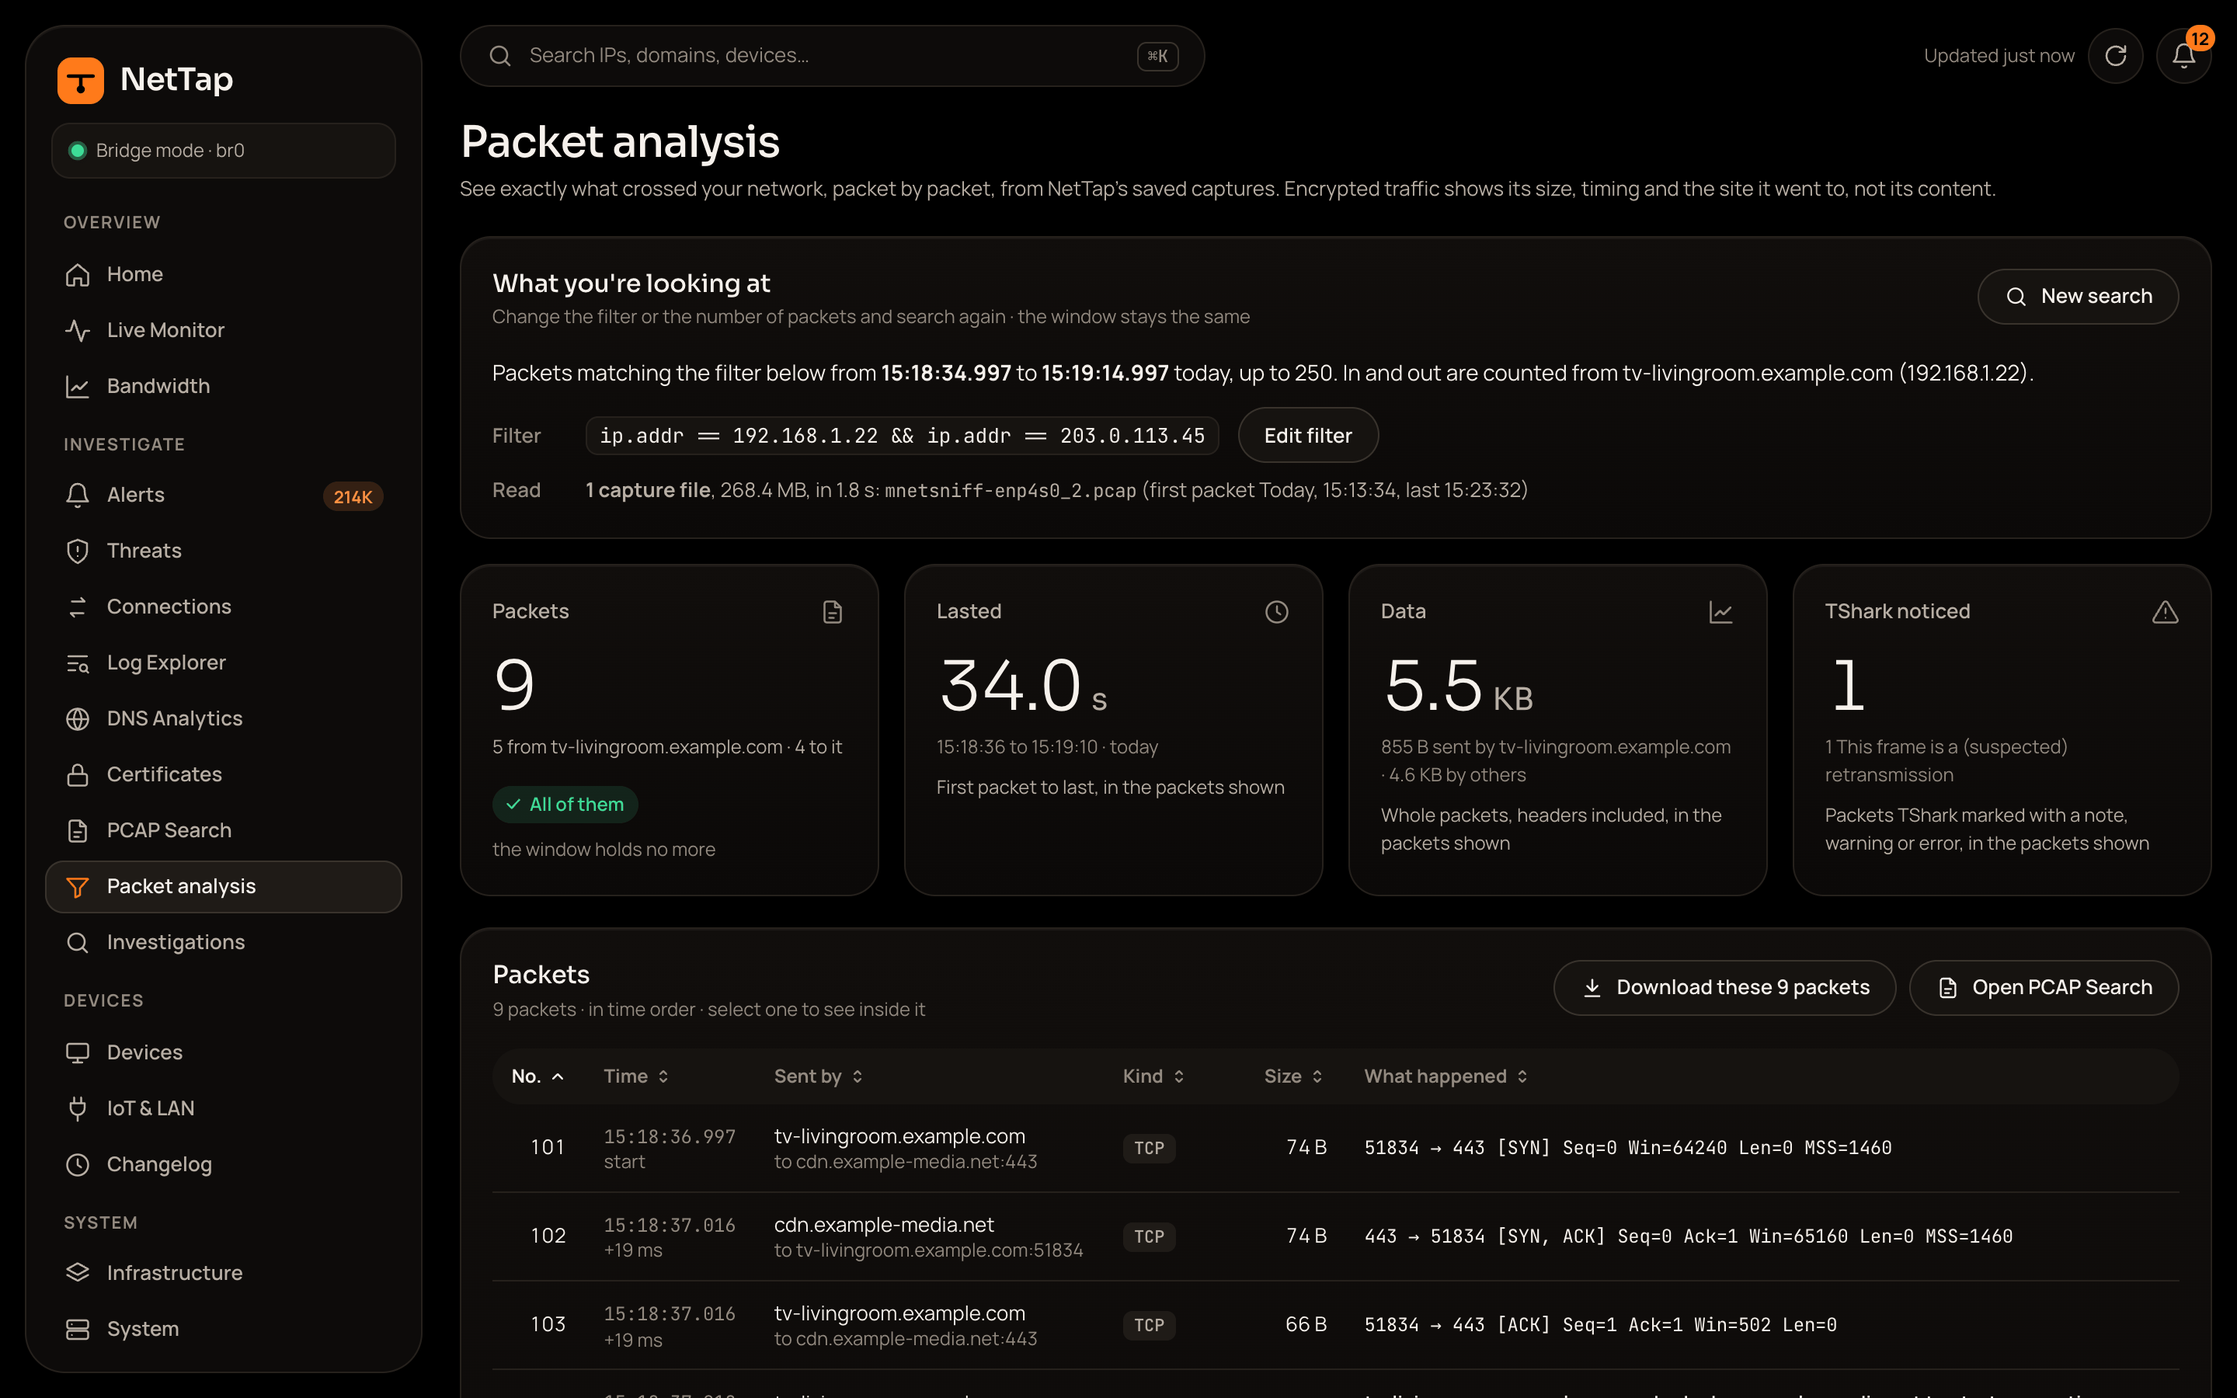
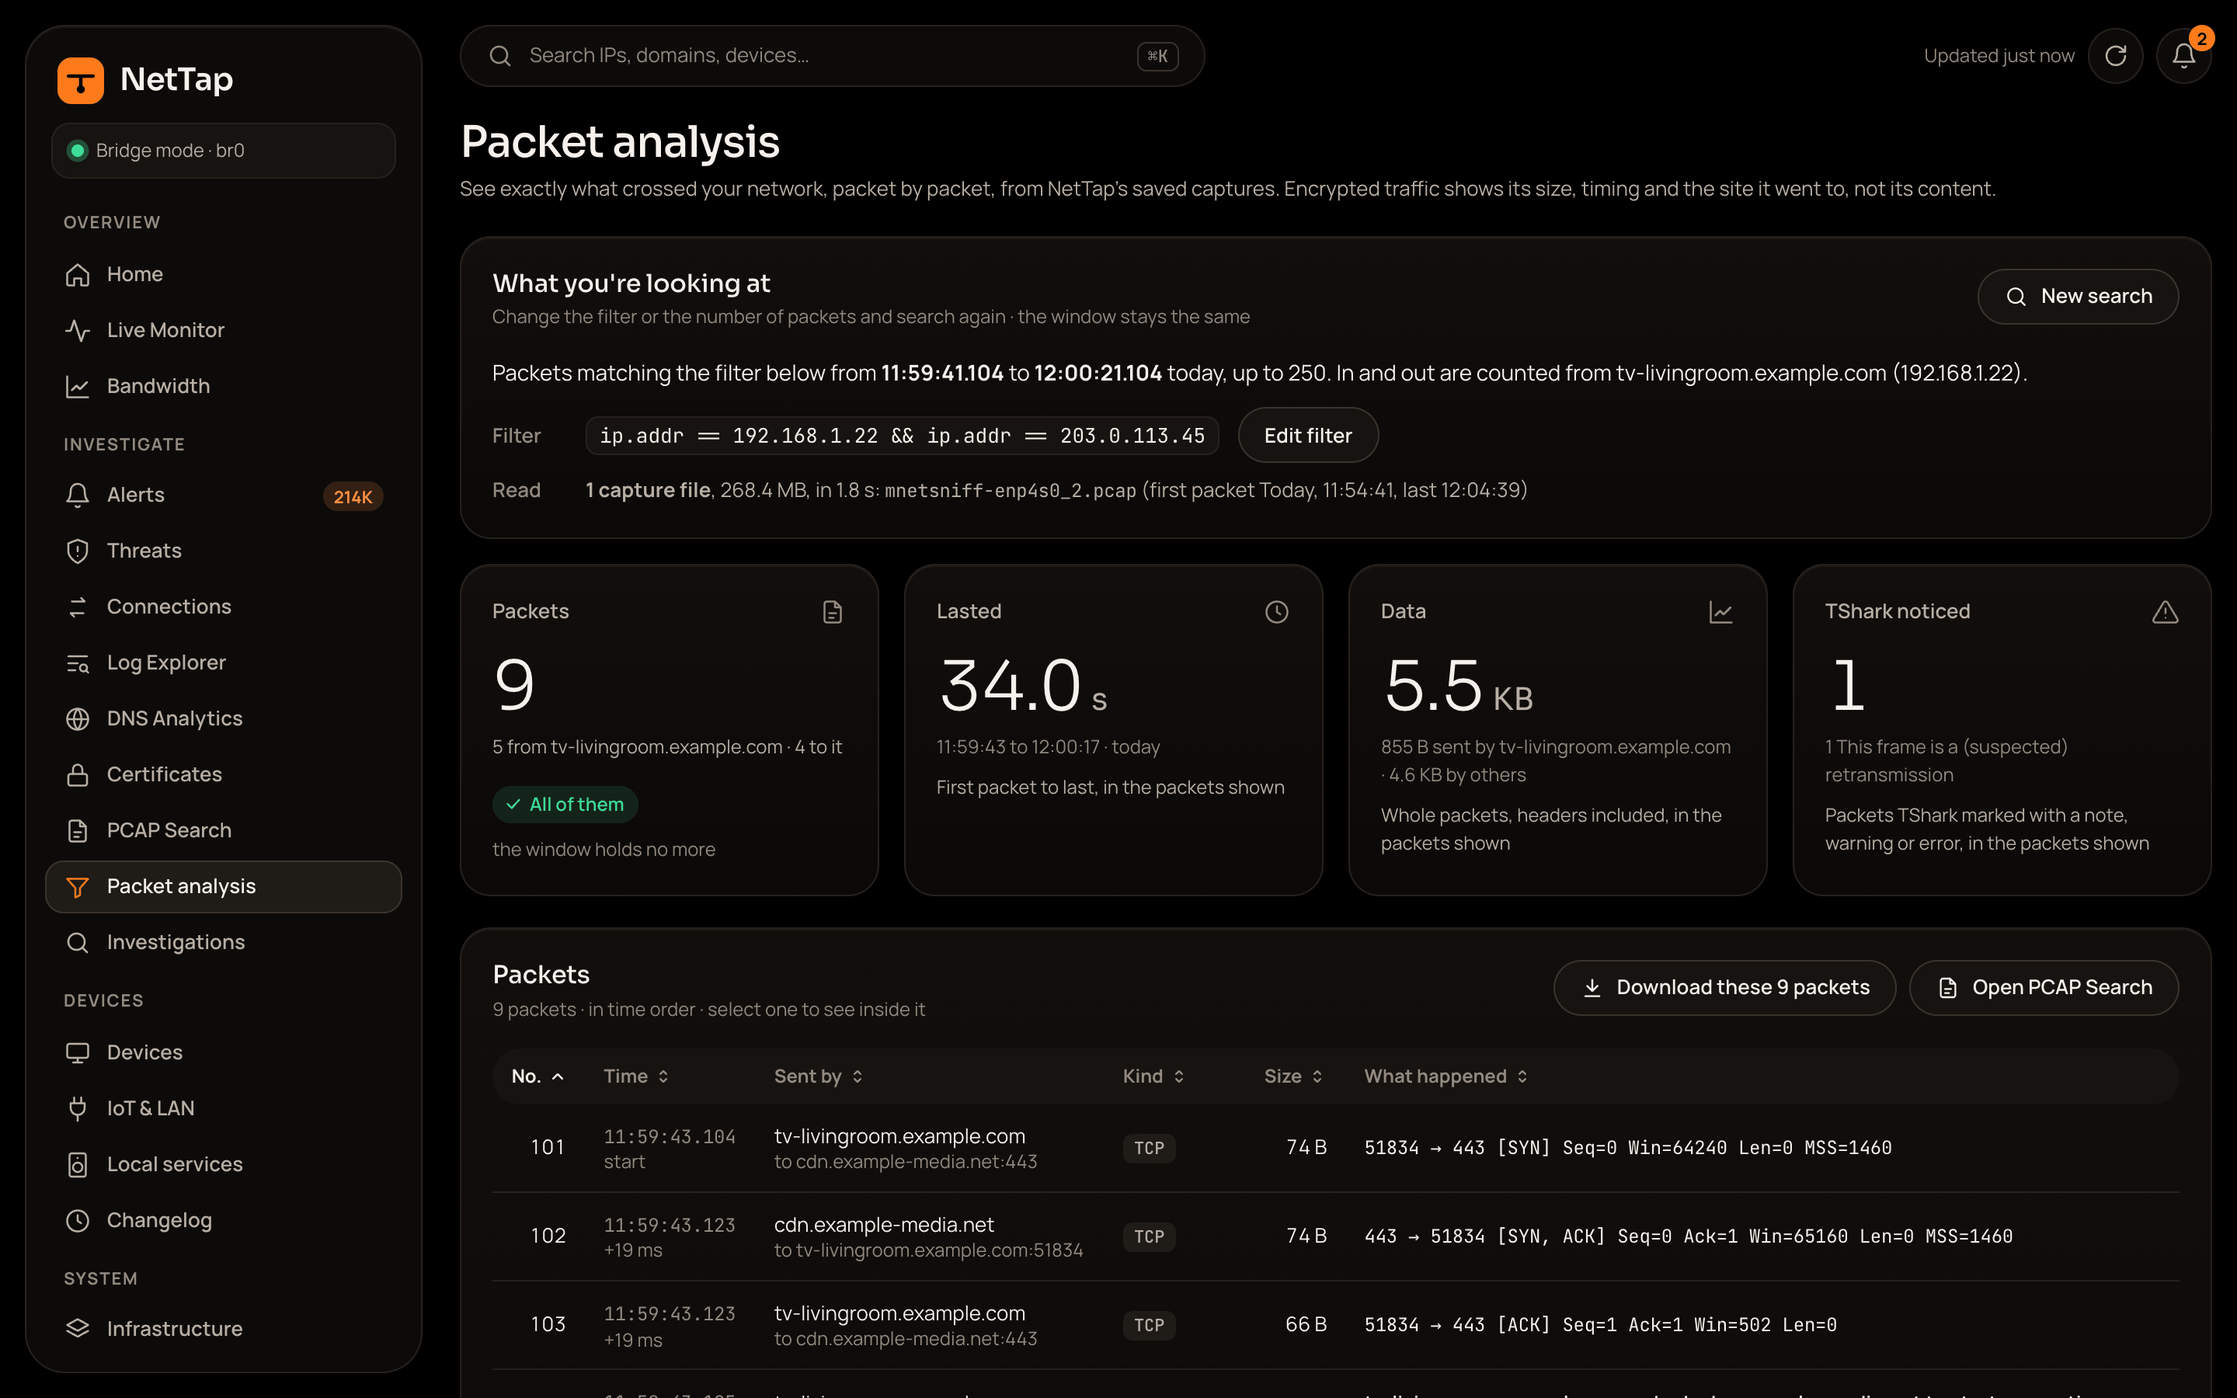
docs(readme): add packet analysis and feature screenshots (NET-282) (#288)
* fix(web): stop the Tools search placeholder being cut off (NET-282)

At 1440 px the page head cut "Search tools: ping, certificate, decode…"
to "Search tools: ping, cer". The placeholder is now "Search tools…";
the label still names the field for screen readers.

Claude-Session: https://claude.ai/code/session_01DpgyCAArFPjpdNK9CzjmC2

* docs(readme): add packet analysis and feature screenshots (NET-282)

Eight new stills: the Packets start form and filter library, the
network flow diagram, live device bandwidth, local services, the
Changelog, the smart home score and Network tools. The eleven
existing stills are re-captured because the sidebar changed. The
"What you get" list now covers what shipped since 8 November.
media.capture.spec.ts gains the new shots, so `npm run capture:media`
regenerates them all from fixture data.

Claude-Session: https://claude.ai/code/session_01DpgyCAArFPjpdNK9CzjmC2

---------

diff --git a/web/e2e/visual/media.capture.spec.ts b/web/e2e/visual/media.capture.spec.ts
@@ -11,6 +11,7 @@ import { execFileSync } from 'node:child_process';
 import { mkdirSync, statSync, writeFileSync } from 'node:fs';
 import path from 'node:path';
 import { APP_URL, STORAGE_STATE } from '../../playwright.visual.config.ts';
+import type { LiveBandwidthSupported } from '../../src/lib/api/live-bandwidth.ts';
 import { ROWS, SEARCH_QUERY } from './fixtures/packets.ts';
 import { expectReached, setMode, settle, stubUpstreams, watchApi } from './harness.ts';
 
@@ -40,10 +41,26 @@ const STILLS: readonly Still[] = [
 	{ file: 'alert-category', path: '/alerts/malware', marker: /malware/i },
 	{ file: 'packets', path: '/packets', search: SEARCH_QUERY, marker: 'Packet analysis', prepare: packetsFound },
 	{ file: 'packet-detail', path: '/packets', search: SEARCH_QUERY, marker: 'Packet analysis', prepare: packetOpen },
+	{ file: 'packets-start', path: '/packets', marker: 'Packet analysis', prepare: askSitesOpened },
+	{ file: 'packets-library', path: '/packets', marker: 'Packet analysis', prepare: (page) => scrollToCard(page, 'Filter library') },
 	{ file: 'devices', path: '/devices', marker: 'Devices' },
-	{ file: 'device-detail', path: '/devices/mac/02:00:5e:10:00:20', marker: 'laptop-01.example.com' },
+	// OLD CODE START — the page now shows the Live bandwidth card (NET-205) below the fold, so it gets its gap filled
+	// { file: 'device-detail', path: '/devices/mac/02:00:5e:10:00:20', marker: 'laptop-01.example.com' },
+	// OLD CODE END
+	{ file: 'device-detail', path: '/devices/mac/02:00:5e:10:00:20', marker: 'laptop-01.example.com', prepare: fillLiveGap },
+	{
+		file: 'device-live',
+		path: '/devices/mac/02:00:5e:10:00:20',
+		marker: 'laptop-01.example.com',
+		prepare: (page) => fillLiveGap(page).then(() => scrollToCard(page, 'Live bandwidth')),
+	},
+	{ file: 'local-services', path: '/local-services', marker: 'Local services' },
 	{ file: 'threats', path: '/threats', marker: 'Threats' },
 	{ file: 'certificates', path: '/certificates', marker: 'Certificates' },
+	{ file: 'connections-flow', path: '/connections', marker: 'Connections', prepare: (page) => scrollToCard(page, 'Network flow') },
+	{ file: 'changelog', path: '/changelog', marker: 'Changelog' },
+	{ file: 'iot', path: '/iot', marker: 'IoT trust score' },
+	{ file: 'tools', path: '/tools', marker: 'Network tools' },
 ];
 
 const globeCard = (page: Page) => page.locator('main .globe-card');
@@ -93,6 +110,43 @@ async function packetOpen(page: Page): Promise<void> {
 	await drawer.getByRole('button', { name: /Destination Address/ }).click();
 	await expect(drawer.locator('.hex mark').first()).toBeVisible();
 	await page.mouse.move(0, 0); // off the layer tree, so no row shows its hover state
+}
+
+/** The first visit's question form with one choice made, so it shows the filter NetTap writes for it. */
+async function askSitesOpened(page: Page): Promise<void> {
+	await page.getByRole('button', { name: 'Sites opened', exact: true }).click();
+	await expect(page.locator('main code.filter')).toBeVisible();
+	await page.mouse.move(0, 0); // off the choice, so it shows no hover state
+}
+
+/** Scroll the card with this heading up level with the sidebar's top, for a card below the fold. */
+async function scrollToCard(page: Page, heading: string): Promise<void> {
+	const title = page.locator('main').getByRole('heading', { name: heading, exact: true }).first();
+	await title.evaluate((el) => {
+		const card = el.closest('.card') ?? el;
+		window.scrollTo({ top: card.getBoundingClientRect().top + window.scrollY - 16, behavior: 'instant' });
+	});
+}
+
+/** The device's Live bandwidth card with every tick measured: the fixture's one missed tick draws a gap that
+ * reads as a glitch in a still, so it gets its neighbours' mean. The card polls every 2 s, so the next answer redraws it. */
+async function fillLiveGap(page: Page): Promise<void> {
+	const isLive = (url: URL) => url.pathname === '/api/live-bandwidth';
+	const mean = (a: number | null, b: number | null) => ((a ?? 0) + (b ?? 0)) / 2;
+	let answered = () => {};
+	// not waitForResponse: a poll already in flight would answer it with the gap still in
+	const filled = new Promise<void>((resolve) => (answered = resolve));
+	await page.route(isLive, async (route) => {
+		const body = (await (await route.fetch()).json()) as LiveBandwidthSupported;
+		const samples = body.samples.map((s, i, all) => {
+			const [before, after] = [all[i - 1], all[i + 1]];
+			if (s.down_bps !== null || !before || !after) return s;
+			return { ...before, tick: s.tick, t: s.t, mono: s.mono, down_bps: mean(before.down_bps, after.down_bps), up_bps: mean(before.up_bps, after.up_bps) };
+		});
+		await route.fulfill({ json: { ...body, samples } });
+		answered();
+	});
+	await filled;
 }
 
 /** The tour's caption: what the screen on view shows. It sits on a band that fades the page to black along

diff --git a/web/src/routes/tools/+page.svelte b/web/src/routes/tools/+page.svelte
@@ -182,7 +182,8 @@
 		<p class="page-sub">Diagnostics, analysis and lookups that run on your NetTap, with no cloud service.</p>
 	</div>
 	<div class="head-actions">
-		<SearchField id="tools-search" label="Search tools" placeholder="Search tools: ping, certificate, decode…" size="toolbar" bind:value={search} />
+		<!-- OLD CODE: placeholder="Search tools: ping, certificate, decode…" (NET-282: cut to "Search tools: ping, cer" in the page head at 1440 px) -->
+		<SearchField id="tools-search" label="Search tools" placeholder="Search tools…" size="toolbar" bind:value={search} />
 	</div>
 </div>
 

diff --git a/README.md b/README.md
@@ -40,10 +40,12 @@ NetTap is an open-source, self-hosted network monitor for homes and small busine
 
 ## What you get
 
-- **Devices**: every device on the network, with its traffic, alerts and a risk score
-- **Alerts**: Suricata intrusion detection (Emerging Threats Open rules) explained in plain English, plus behaviour checks such as beaconing and DNS anomalies
-- **Traffic**: connections, DNS, TLS certificates, GeoIP and bandwidth per device
-- **Packet capture**: full PCAP you can search and download, with TShark and CyberChef built in
+- **Devices**: every device on the network, with its traffic, alerts and a risk score. Give a device a name and a picture, watch its live bandwidth (opt-in), compare two periods, and see what your devices announce over mDNS and SSDP
+- **Alerts**: Suricata intrusion detection explained in plain English, plus behaviour checks such as beaconing and DNS anomalies. Emerging Threats Open rules by default; add an ET Pro code or write your own rules in Settings
+- **Traffic**: connections, DNS, TLS certificates, GeoIP and bandwidth per device, with QUIC identified as its own protocol. Click or drag any chart over time to open what it counted
+- **Changelog**: what changed on your network, such as new devices joining and what each one did
+- **Packet capture**: full PCAP you can search and download. Pick what you want to see, or one of 37 ready-made filters, and NetTap writes the Wireshark filter and reads the right capture files. TShark and CyberChef are built in
+- **Network tools**: ping and traceroute with a path MTU check, a LAN throughput test (iperf3), DNS lookups that compare several resolvers, an IPv6 toolkit and a DHCP lease timeline per device
 - **Notifications**: email, Discord, Slack, Telegram, Pushover or a webhook
 - **Low upkeep**: deletes old data before the disk fills, watches SSD health, and updates Malcolm with a backup and rollback
 - **Local only**: no cloud, no account, no subscription. Your traffic stays on the box. Update checks, rule downloads and WHOIS lookups do use the internet.
@@ -67,12 +69,28 @@ NetTap is an open-source, self-hosted network monitor for homes and small busine
     <td width="50%"><a href=".github/assets/media/packet-detail.png"><img src=".github/assets/media/packet-detail.png" alt="One packet opened beside the list: its decoded layers, with the destination address highlighted in the raw bytes"></a><br><sub>One packet: its decoded layers and raw bytes</sub></td>
   </tr>
   <tr>
+    <td width="50%"><a href=".github/assets/media/packets-start.png"><img src=".github/assets/media/packets-start.png" alt="Packet analysis before a search: choose who, what, when and how many, and the page shows the Wireshark filter it wrote, beside a list of common questions"></a><br><sub>Pick what you want to see; NetTap writes the filter</sub></td>
+    <td width="50%"><a href=".github/assets/media/packets-library.png"><img src=".github/assets/media/packets-library.png" alt="Filter library: 37 ready-made packet filters grouped by topic, such as name lookups, connection problems and remote logins, each explained in a line"></a><br><sub>Filter library: 37 ready-made filters, each explained</sub></td>
+  </tr>
+  <tr>
     <td width="50%"><a href=".github/assets/media/devices.png"><img src=".github/assets/media/devices.png" alt="Devices page: every device with its type, operating system, maker and bandwidth"></a><br><sub>Devices: every device, what it is and how much it uses</sub></td>
-    <td width="50%"><a href=".github/assets/media/device-detail.png"><img src=".github/assets/media/device-detail.png" alt="Device page for a laptop: its traffic, connections, top destinations and protocols"></a><br><sub>One device: its traffic, destinations and protocols</sub></td>
+    <td width="50%"><a href=".github/assets/media/device-detail.png"><img src=".github/assets/media/device-detail.png" alt="Device page for a laptop: buttons to rename it and change its picture, its addresses, maker, DHCP history, traffic and connections"></a><br><sub>One device: rename it, give it a picture, see its traffic</sub></td>
+  </tr>
+  <tr>
+    <td width="50%"><a href=".github/assets/media/device-live.png"><img src=".github/assets/media/device-live.png" alt="A device's live bandwidth: download and upload every 2 seconds over the last 5 minutes, above its bandwidth over the last 24 hours"></a><br><sub>Live bandwidth for one device, every 2 seconds (opt-in)</sub></td>
+    <td width="50%"><a href=".github/assets/media/local-services.png"><img src=".github/assets/media/local-services.png" alt="Local services page: AirPlay receivers, a Philips Hue bridge, Google Cast and other services your devices announce over mDNS and SSDP"></a><br><sub>Local services: what your devices announce on the network</sub></td>
   </tr>
   <tr>
     <td width="50%"><a href=".github/assets/media/threats.png"><img src=".github/assets/media/threats.png" alt="Threats page: threat score, a threat brief, kill chains and threat-intel matches"></a><br><sub>Threats: threat score, kill chains and threat-intel matches</sub></td>
     <td width="50%"><a href=".github/assets/media/certificates.png"><img src=".github/assets/media/certificates.png" alt="Certificates page: TLS certificates that need a look, with the reason for each"></a><br><sub>Certificates: TLS certificates that need a look</sub></td>
+  </tr>
+  <tr>
+    <td width="50%"><a href=".github/assets/media/connections-flow.png"><img src=".github/assets/media/connections-flow.png" alt="Network flow on the Connections page: data from each device, through each protocol, to each destination, drawn as bands sized by volume"></a><br><sub>Network flow: from each device, by protocol, to each destination</sub></td>
+    <td width="50%"><a href=".github/assets/media/changelog.png"><img src=".github/assets/media/changelog.png" alt="Changelog page: events and new devices in the last 7 days, the data the new devices moved, and events over time"></a><br><sub>Changelog: new devices and other changes, and what they did</sub></td>
+  </tr>
+  <tr>
+    <td width="50%"><a href=".github/assets/media/iot.png"><img src=".github/assets/media/iot.png" alt="IoT trust score page: a smart home health score out of 100 and findings such as a TV contacting tracker domains or a camera using an unexpected port"></a><br><sub>IoT trust score: how your smart home devices behave</sub></td>
+    <td width="50%"><a href=".github/assets/media/tools.png"><img src=".github/assets/media/tools.png" alt="Network tools page: ping and traceroute, LAN throughput test, subnet calculator, IPv6 toolkit, DHCP lease timeline, DNS and WHOIS lookups and more"></a><br><sub>Network tools: diagnostics and lookups that run on the box</sub></td>
   </tr>
 </table>
 

diff --git a/tracking-fixes/2026-11-14-readme-media-refresh.md b/tracking-fixes/2026-11-14-readme-media-refresh.md
@@ -1,0 +1,39 @@
+# README refresh with new screenshots, 2026-11-14
+
+**Linear:** NET-282
+**Branch:** `docs/readme-media-refresh`
+**Status:** owner approved the screenshots on 2026-11-14 ("GO GO GO"); PR open.
+**Plan gate:** not needed: docs and media, plus a one-line placeholder fix.
+
+## What changed
+
+- **8 new stills** in `.github/assets/media/`: `packets-start.png` (the "What do you want to see?" form), `packets-library.png` (37 ready-made filters), `connections-flow.png` (network flow diagram), `device-live.png` (live bandwidth on one device), `local-services.png`, `changelog.png`, `iot.png` (smart home score) and `tools.png`.
+- **The 11 existing stills were re-captured**, because the sidebar changed after 8 November (Local services added, System removed). `nettap-tour.gif` is unchanged and still shows the old sidebar.
+- **README:** five new screenshot rows. The "What you get" list now covers what shipped after 8 November. The release line stays `v0.4.0-alpha.1`.
+- **`web/e2e/visual/media.capture.spec.ts`:** new STILLS entries and three helpers. The old device-detail line is kept as OLD CODE.
+- **App fix:** the Tools search placeholder was cut to "Search tools: ping, cer" in the page head at 1440 px. It is now "Search tools…", in `web/src/routes/tools/+page.svelte`, with the old line kept as an OLD CODE comment.
+
+## How to regenerate
+
+`cd web && npm run capture:media -- -g "<file name>"` (headed, fixture data only).
+
+## Tests
+
+- svelte-check: 0 errors.
+- Tools vitest: 156 passed.
+- `npm run check:colors`: clean.
+- Visual tests matching "tools": 61 passed, 12 skipped.
+
+## Known
+
+- `iot.png` shows the inline-bridge-mode notice, because the fixture runs in bridge mode. Every shot shows the "Bridge mode · br0" chip, as the published ones already did.
+- `changelog.png`: the Events table is wider than its card (an app bug; see below).
+
+## Next
+
+These app bugs were spotted while choosing pages, and are filed in Linear:
+
+- `/pcap` timeline y-axis labels repeat.
+- `/tools/dhcp-timeline` at 1440 px: the Messages column is cut off, and a space is missing.
+- The `/changelog` Events table overflows its card.
+- `/packets` "All traffic" text ends with "every packet:".
